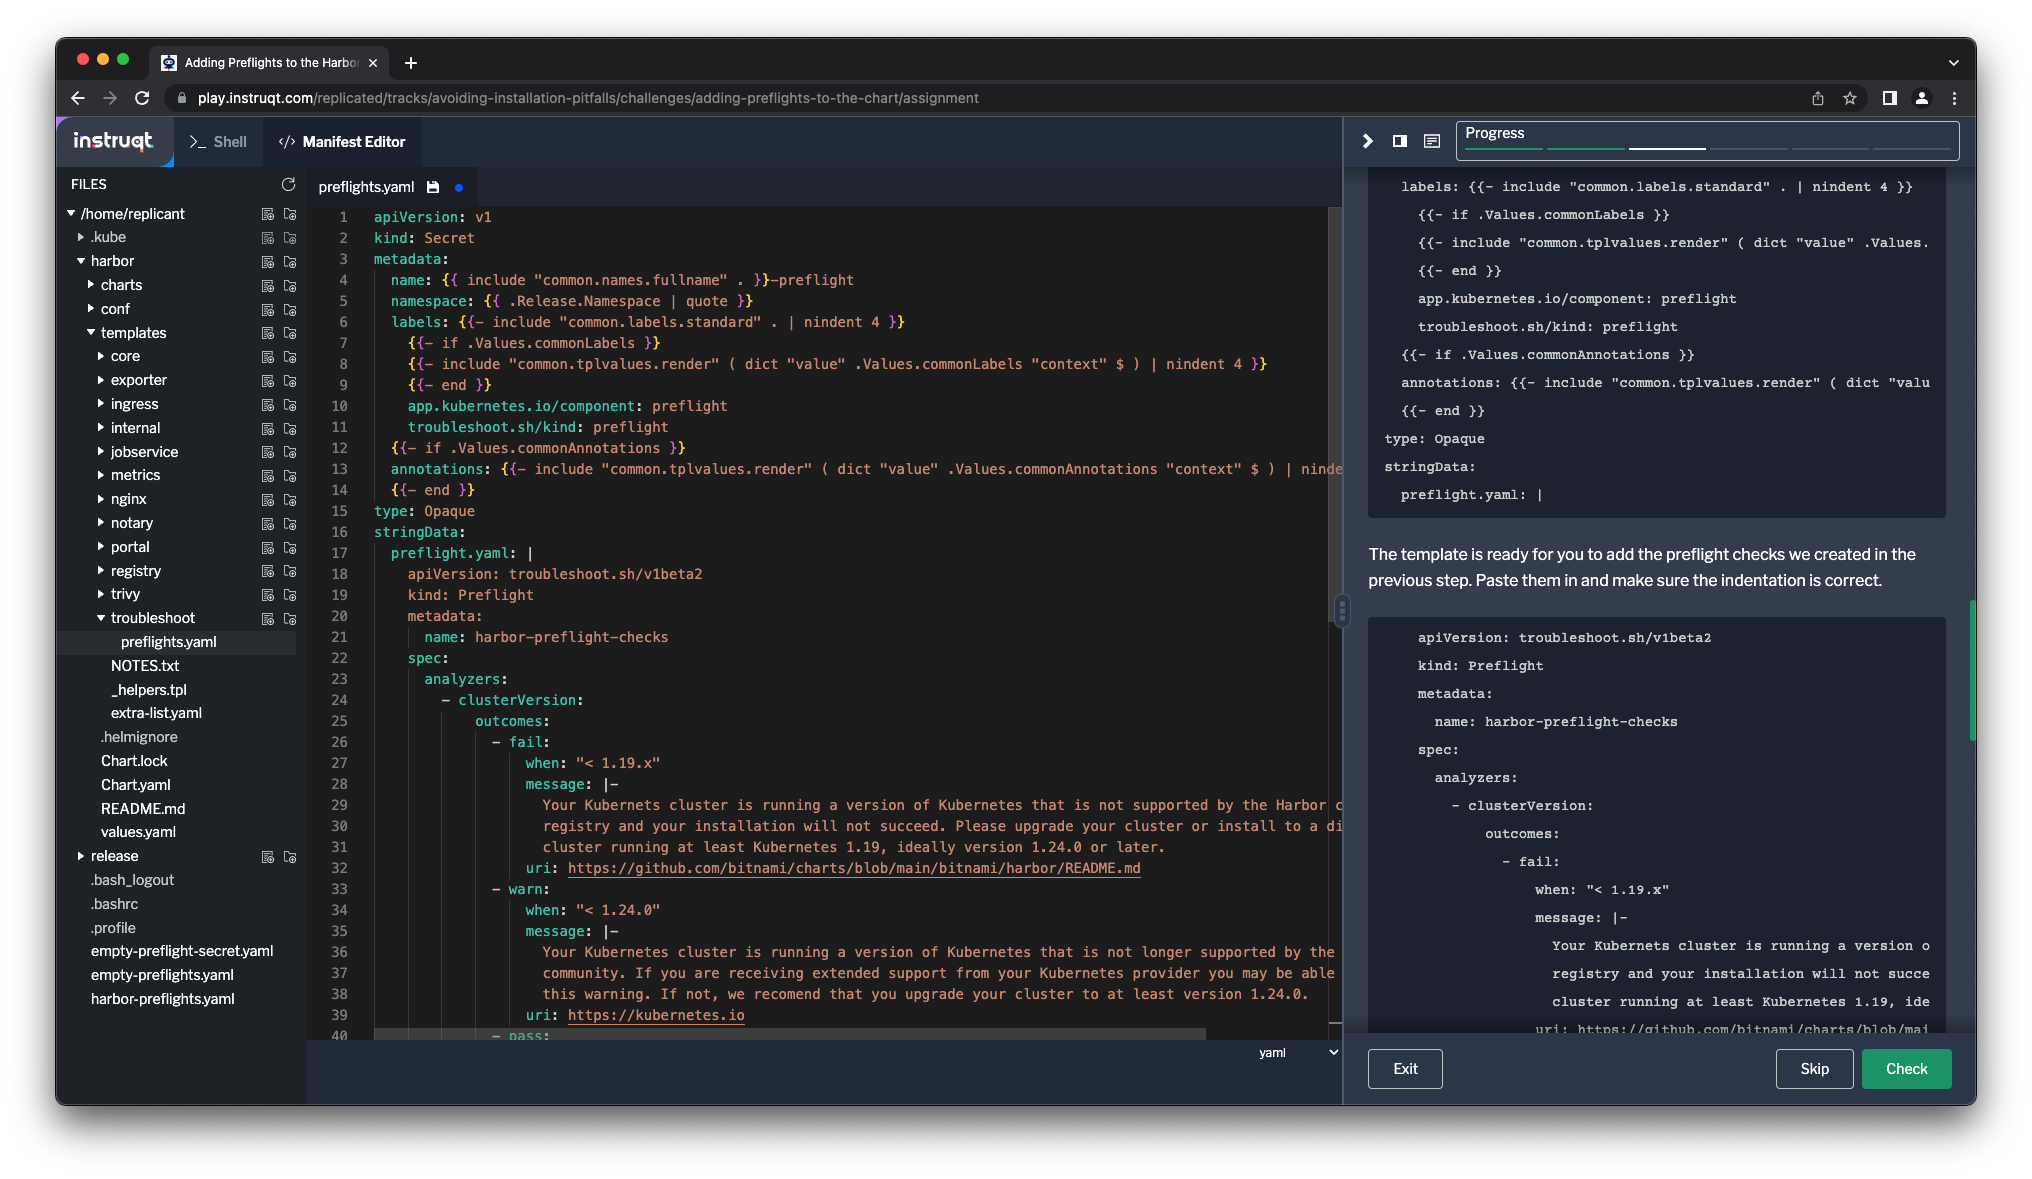
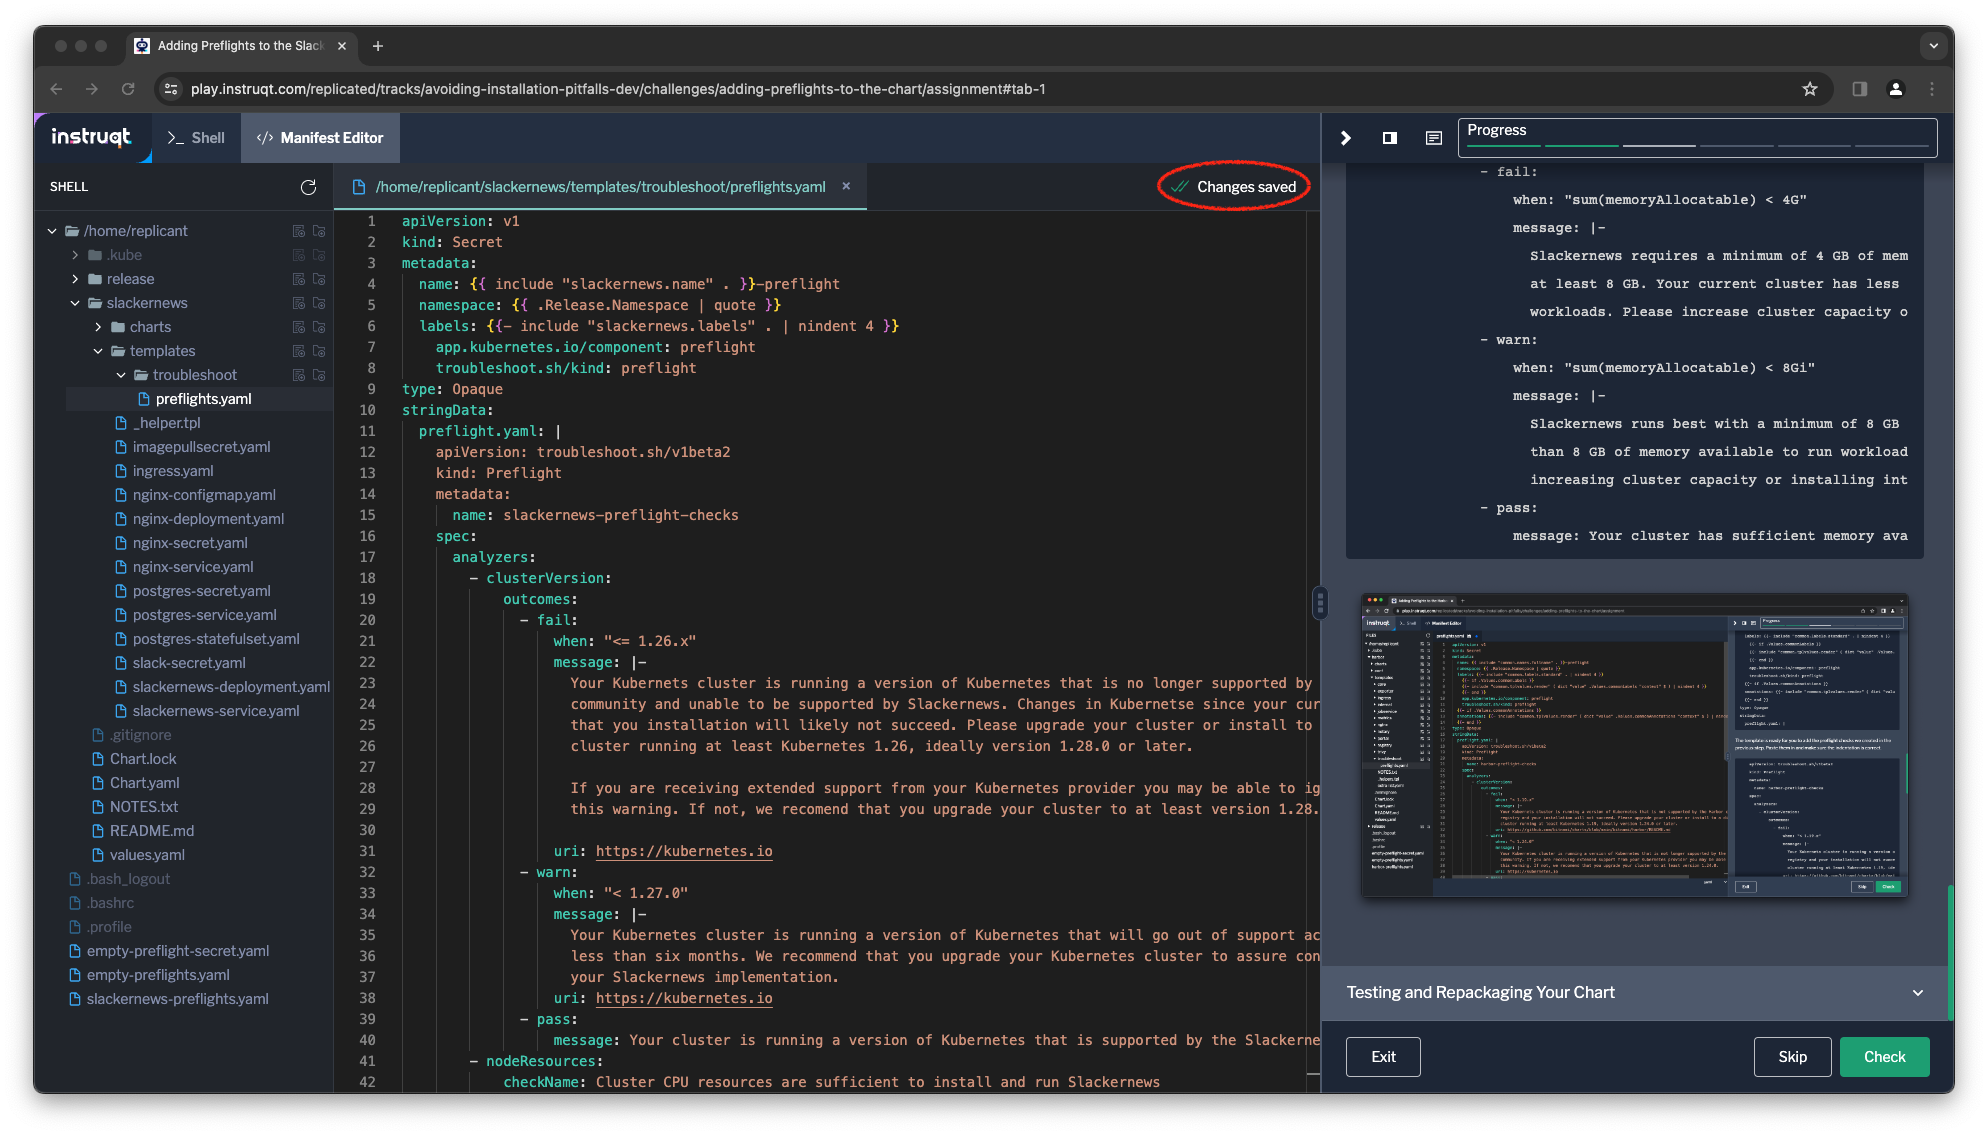
Updates to third "Avoiding..." challenge after first run through

Changed region(s): [[0.0, 0.0, 0.998, 0.9868], [0.4366, 0.37, 0.5926, 0.4009]]

diff --git a/instruqt/avoiding-installation-pitfalls/03-adding-preflights-to-the-chart/assignment.md b/instruqt/avoiding-installation-pitfalls/03-adding-preflights-to-the-chart/assignment.md
@@ -2,11 +2,11 @@
 slug: adding-preflights-to-the-chart
 id: vwxcejaonowy
 type: challenge
-title: Adding Preflights to the Harbor Helm Chart
+title: Adding Preflights to the Slackernews Helm Chart
 teaser: Learn how to incorporate your preflight checks into your chart
 notes:
 - type: text
-  contents: Time to add our preflight checks to the Harbor Helm chart
+  contents: Time to add our preflight checks to the Slackernews Helm chart
 tabs:
 - title: Shell
   type: terminal
@@ -20,7 +20,7 @@ timelimit: 600
 ---
 
 There are many more preflight checks we could define for the
-Harbor registry, but let's stop here and shift to how we can
+Slackernews registry, but let's stop here and shift to how we can
 deliver these checks as part of the application. To do this,
 we're going to incorporate them into our Helm chart and
 release a new version using the Replicated Platform.
@@ -62,8 +62,10 @@ kind: Secret
 type: Opaque
 metadata:
   name: empty-preflights
+  labels:
+    troubleshoot.sh/kind: preflight
 stringData:
-  preflights.yaml: |-
+  preflight.yaml: |-
     apiVersion: troubleshoot.sh/v1beta2
     kind: Preflight
     metadata:
@@ -89,28 +91,28 @@ Error: no results
 _Note: The preflight check can also be stored as a `ConfigMap`
 with the same annotation._
 
-Adding Preflight Checks into the Harbor Helm Chart
+Adding Preflight Checks into the Slackernews Helm Chart
 ==================================================
 
 Now that you know how to include your preflight checks into a
-Helm chart, let's add them to the Harbor Helm chart. To make
+Helm chart, let's add them to the Slackernews Helm chart. To make
 the secret fit in with Bitnami's naming, labeling, and annotation
 conventions, there's a little bit of boiler plate required. You'll
 likely need to do something similar to follow your team's
 conventions when working with your own chart.
 
-Similarly, we're going to follow the conventions for the Harbor chart where
+Similarly, we're going to follow the conventions for the Slackernews chart where
 different components are in their own directories and create a directory to
 store our preflight chart in. We're going to call the directory `troubleshoot`
 since preflight checks are one of two types troubleshooting resources provided
 by the Replicated Platform. Create the directory from the shell.
 
 ```
-mkdir harbor/templates/troubleshoot
+mkdir slackernews/templates/troubleshoot
 ```
 
 Open the manifest editor and create a new file named `preflights.yaml` in the
-directory `harbor/templates/troubleshoot`. This will be the template that
+directory `slackernews/templates/troubleshoot`. This will be the template that
 creates the preflight secret when the Helm chart is installed.
 
 ![Creating the Preflights Template](../assets/creating-the-preflights-template.png)
@@ -129,17 +131,11 @@ identifies the secret for the `preflight` command.
 apiVersion: v1
 kind: Secret
 metadata:
-  name: {{ include "common.names.fullname" . }}-preflight
+  name: {{ include "slackernews.name" . }}-preflight
   namespace: {{ .Release.Namespace | quote }}
-  labels: {{- include "common.labels.standard" . | nindent 4 }}
-    {{- if .Values.commonLabels }}
-    {{- include "common.tplvalues.render" ( dict "value" .Values.commonLabels "context" $ ) | nindent 4 }}
-    {{- end }}
-    app.kubernetes.io/component: troubleshoot
+  labels: {{- include "slackernews.labels" . | nindent 4 }}
+    app.kubernetes.io/component: preflight
     troubleshoot.sh/kind: preflight
-  {{- if .Values.commonAnnotations }}
-  annotations: {{- include "common.tplvalues.render" ( dict "value" .Values.commonAnnotations "context" $ ) | nindent 4 }}
-  {{- end }}
 type: Opaque
 stringData:
   preflight.yaml: |
@@ -153,66 +149,69 @@ the indentation is correct.
     apiVersion: troubleshoot.sh/v1beta2
     kind: Preflight
     metadata:
-      name: harbor-preflight-checks
+      name: slackernews-preflight-checks
     spec:
       analyzers:
         - clusterVersion:
             outcomes:
               - fail:
-                  when: "< 1.19.x"
+                  when: "<= 1.26.x"
                   message: |-
-                    Your Kubernets cluster is running a version of Kubernetes that is not supported by the Harbor container
-                    registry and your installation will not succeed. Please upgrade your cluster or install to a different
-                    cluster running at least Kubernetes 1.19, ideally version 1.24.0 or later.
-                  uri: https://github.com/bitnami/charts/blob/main/bitnami/harbor/README.md
+                    Your Kubernets cluster is running a version of Kubernetes that is no longer supported by the Kubernetes
+                    community and unable to be supported by Slackernews. Changes in Kubernetse since your current version mean
+                    that you installation will likely not succeed. Please upgrade your cluster or install to a different
+                    cluster running at least Kubernetes 1.26, ideally version 1.28.0 or later.
+
+                    If you are receiving extended support from your Kubernetes provider you may be able to ignore
+                    this warning. If not, we recomend that you upgrade your cluster to at least version 1.28.0.
+
+                  uri: https://kubernetes.io
               - warn:
-                  when: "< 1.24.0"
+                  when: "< 1.27.0"
                   message: |-
-                    Your Kubernetes cluster is running a version of Kubernetes that is not longer supported by the Kubernetes
-                    community. If you are receiving extended support from your Kubernetes provider you may be able to ignore
-                    this warning. If not, we recomend that you upgrade your cluster to at least version 1.24.0.
+                    Your Kubernetes cluster is running a version of Kubernetes that will go out of support active support in
+                    less than six months. We recommend that you upgrade your Kubernetes cluster to assure continued success with
+                    your Slackernews implementation.
                   uri: https://kubernetes.io
               - pass:
-                  message: Your cluster is running a version of Kubernetes that is supported by the Harbor container registry.
+                  message: Your cluster is running a version of Kubernetes that is supported by the Slackernews container registry.
         - nodeResources:
-            checkName: Cluster CPU resources are sufficient to install and run Harbor
+            checkName: Cluster CPU resources are sufficient to install and run Slackernews
             outcomes:
               - fail:
                   when: "sum(cpuAllocatable) < 2"
                   message: |-
-                    Harbor requires a minimum of 2 CPU cores in order to run, and runs best with
+                    Slackernews requires a minimum of 2 CPU cores in order to run, and runs best with
                     at least 4 cores. Your current cluster has less than 2 CPU cores available to Kubernetes
                     workloads. Please increase cluster capacity or install into a different cluster.
-                  uri: https://goharbor.io/docs/2.8.0/install-config/installation-prereqs/
               - warn:
                   when: "sum(cpuAllocatable) < 4"
                   message: |-
-                    Harbor runs best with a minimum of 4 CPU cores. Your current cluster has less
+                    Slackernews runs best with a minimum of 4 CPU cores. Your current cluster has less
                     than 4 CPU cores available to run workloads. For the best experience, consider
                     increasing cluster capacity or installing into a different cluster.
-                  uri: https://goharbor.io/docs/2.8.0/install-config/installation-prereqs/
               - pass:
-                  message: Your cluster has sufficient CPU resources available to run Harbor
+                  message: Your cluster has sufficient CPU resources available to run Slackernews
         - nodeResources:
-            checkName: Cluster memory is sufficient to install and run Harbor
+            checkName: Cluster memory is sufficient to install and run Slackernews
             outcomes:
               - fail:
                   when: "sum(memoryAllocatable) < 4G"
                   message: |-
-                    Harbor requires a minimum of 4 GB of memory in order to run, and runs best with
+                    Slackernews requires a minimum of 4 GB of memory in order to run, and runs best with
                     at least 8 GB. Your current cluster has less than 4 GB available to Kubernetes
                     workloads. Please increase cluster capacity or install into a different cluster.
-                  uri: https://goharbor.io/docs/2.8.0/install-config/installation-prereqs/
               - warn:
                   when: "sum(memoryAllocatable) < 8Gi"
                   message: |-
-                    Harbor runs best with a minimum of 8 GB of memory. Your current cluster has less
+                    Slackernews runs best with a minimum of 8 GB of memory. Your current cluster has less
                     than 8 GB of memory available to run workloads. For the best experience, consider
                     increasing cluster capacity or installing into a different cluster.
-                  uri: https://goharbor.io/docs/2.8.0/install-config/installation-prereqs/
               - pass:
-                  message: Your cluster has sufficient memory available to run Harbor
+                  message: Your cluster has sufficient memory available to run Slackernews
 ```
+
+After you make your changes, the editor will auto-save.
 
 ![Saving the Preflights Template](../assets/saving-the-preflights-template.png)
 
@@ -224,21 +223,21 @@ piping the results to `kubectl preflight`. This is how your customers
 will run the checks from your released chart as well.
 
 ```
-helm template harbor | kubectl preflight -
+helm template slackernews | kubectl preflight -
 ```
 
 If you're satisfied with the tests, bump the version of your Helm chart in the file
-`harbor/Chart.yaml` from `19.2.0` to `19.3.0`, then repackage it. You can edit
+`slackernews/Chart.yaml` from `0.2.0` to `0.3.0`, then repackage it. You can edit
 the version in the Manifest Editor or run the following command to do it from
 the shell:
 
 ```
-yq -i '.version = "19.3.0"' harbor/Chart.yaml
+yq -i '.version = "0.3.0"' slackernews/Chart.yaml
 ```
 
 Then run the `helm package` command to package the updated version:
 
 ```
-helm package harbor --destination ./release
+helm package slackernews --destination ./release
 ```
 
